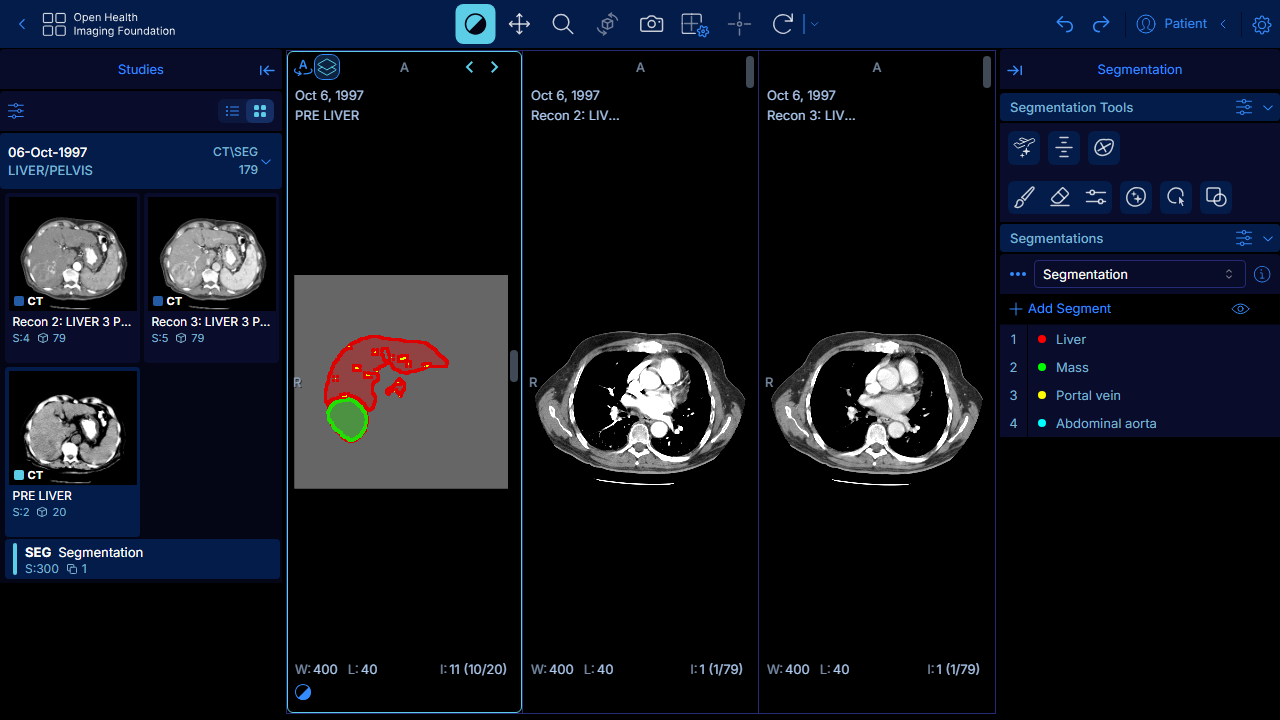
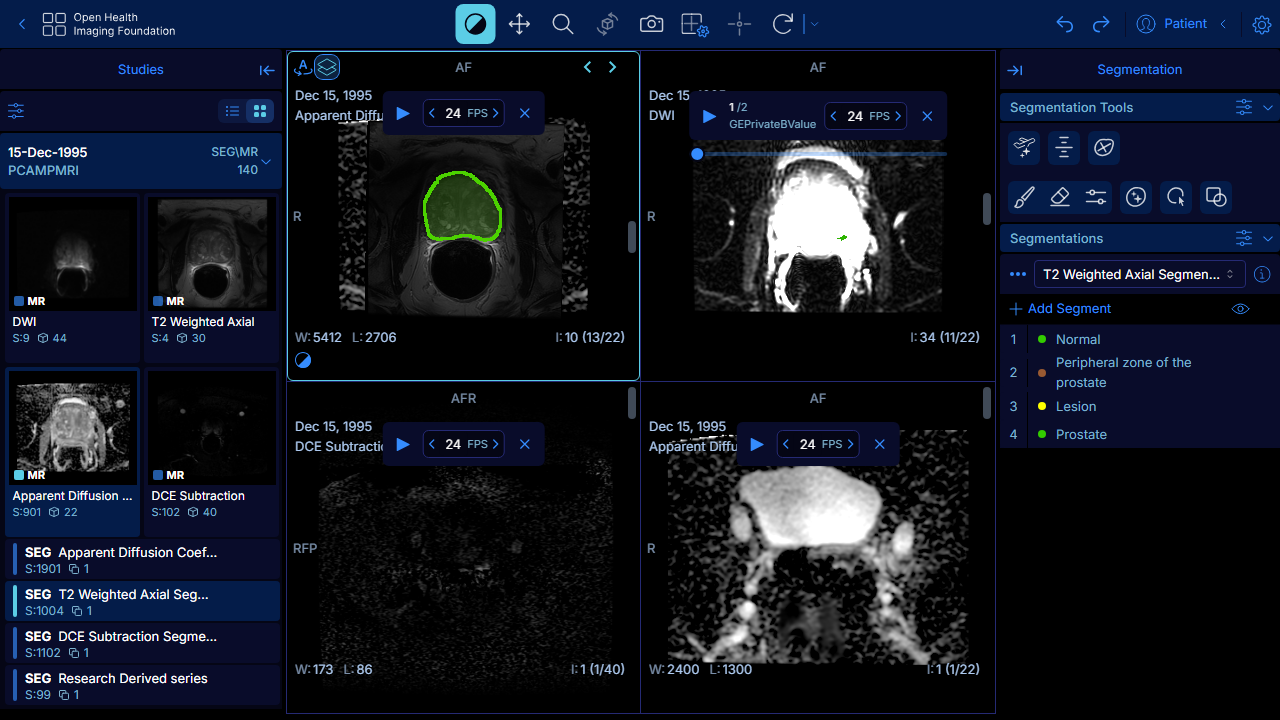
Fix flaky SEGDataOverlayForUnreferencedDisplaySetNoHydration test. (#5254)

diff --git a/tests/SEGDataOverlayForUnreferencedDisplaySetNoHydration.spec.ts b/tests/SEGDataOverlayForUnreferencedDisplaySetNoHydration.spec.ts
@@ -4,7 +4,7 @@ import { press } from './utils/keyboardUtils';
 import { assertNumberOfModalityLoadBadges } from './utils/assertions';
 
 test.beforeEach(async ({ page }) => {
-  const studyInstanceUID = '1.3.6.1.4.1.14519.5.2.1.1706.8374.643249677828306008300337414785';
+  const studyInstanceUID = '1.3.6.1.4.1.14519.5.2.1.3671.4754.298665348758363466150039312520';
   const mode = 'segmentation';
   await visitStudy(page, studyInstanceUID, mode, 2000);
 });
@@ -12,10 +12,12 @@ test.beforeEach(async ({ page }) => {
 test('should overlay an unhydrated SEG over a display set that the SEG does NOT reference', async ({
   page,
 }) => {
+  await page.getByTestId('study-browser-thumbnail').nth(2).dblclick();
+
   await page.getByTestId('dataOverlayMenu-default-btn').click();
   await page.getByTestId('AddSegmentationDataOverlay-default').click();
   await page.getByText('SELECT A SEGMENTATION').click();
-  await page.getByTestId('Segmentation').click();
+  await page.getByTestId('T2 Weighted Axial Segmentations').click();
 
   // Adding an overlay should not show the LOAD button.
   assertNumberOfModalityLoadBadges({ page, expectedCount: 0 });
@@ -32,7 +34,7 @@ test('should overlay an unhydrated SEG over a display set that the SEG does NOT 
   );
 
   // Navigate to the middle image of the default viewport.
-  await press({ page, key: 'ArrowDown', nTimes: 9 });
+  await press({ page, key: 'ArrowDown', nTimes: 12 });
 
   await page.waitForTimeout(5000);
 